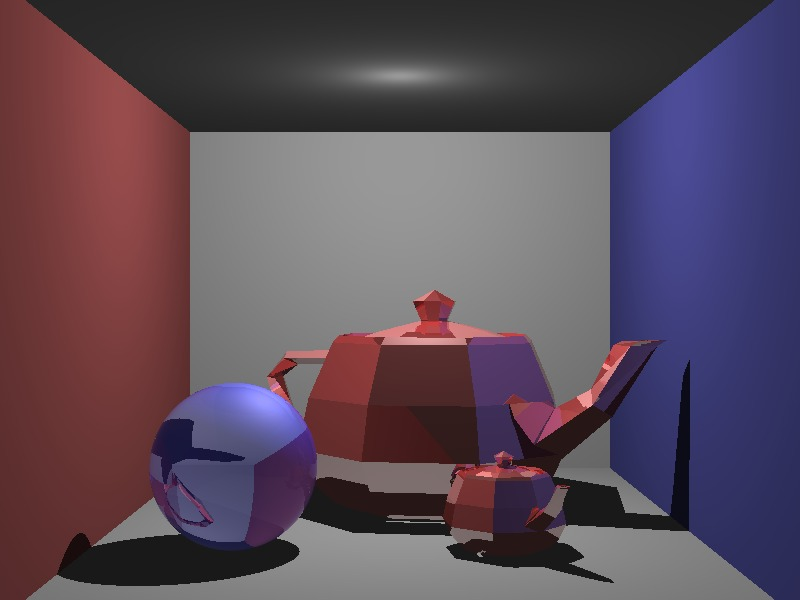
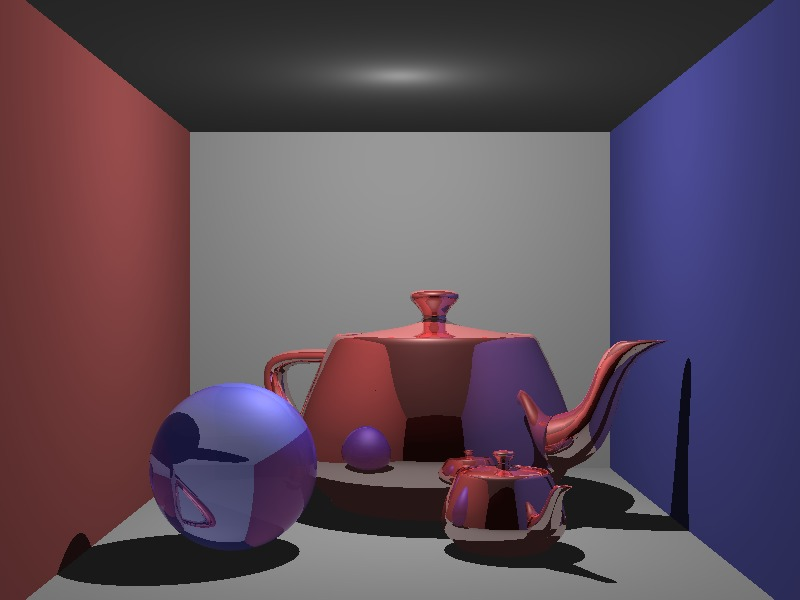
prj 5 bug fixed

diff --git a/courses/cs6620/prj5.html b/courses/cs6620/prj5.html
@@ -6,10 +6,10 @@
 
 <p> &#160;Project 5 - Triangular Meshes </p>
 
-<p> Render time: ~18s without Bounding Box</p>
+<p> Render time: (00h 00m 18s) without Bounding Box</p>
 <IMG SRC="prj5pics/prj5.png" ALT="some text" WIDTH=800 HEIGHT=600>
-<p> z-buffer image</p>
-<IMG SRC="prj5pics/prj5-z.png" ALT="some text" WIDTH=800 HEIGHT=600>
+<p> Render time: (00h 03m 10s) without Bounding Box</p>
+<IMG SRC="prj5pics/prj5-final.png" ALT="some text" WIDTH=800 HEIGHT=600>
 
 <p> Hardware : Core i7 - 2630QM (2.00GH)</p>
 <p> Ram : 6GB </p>
